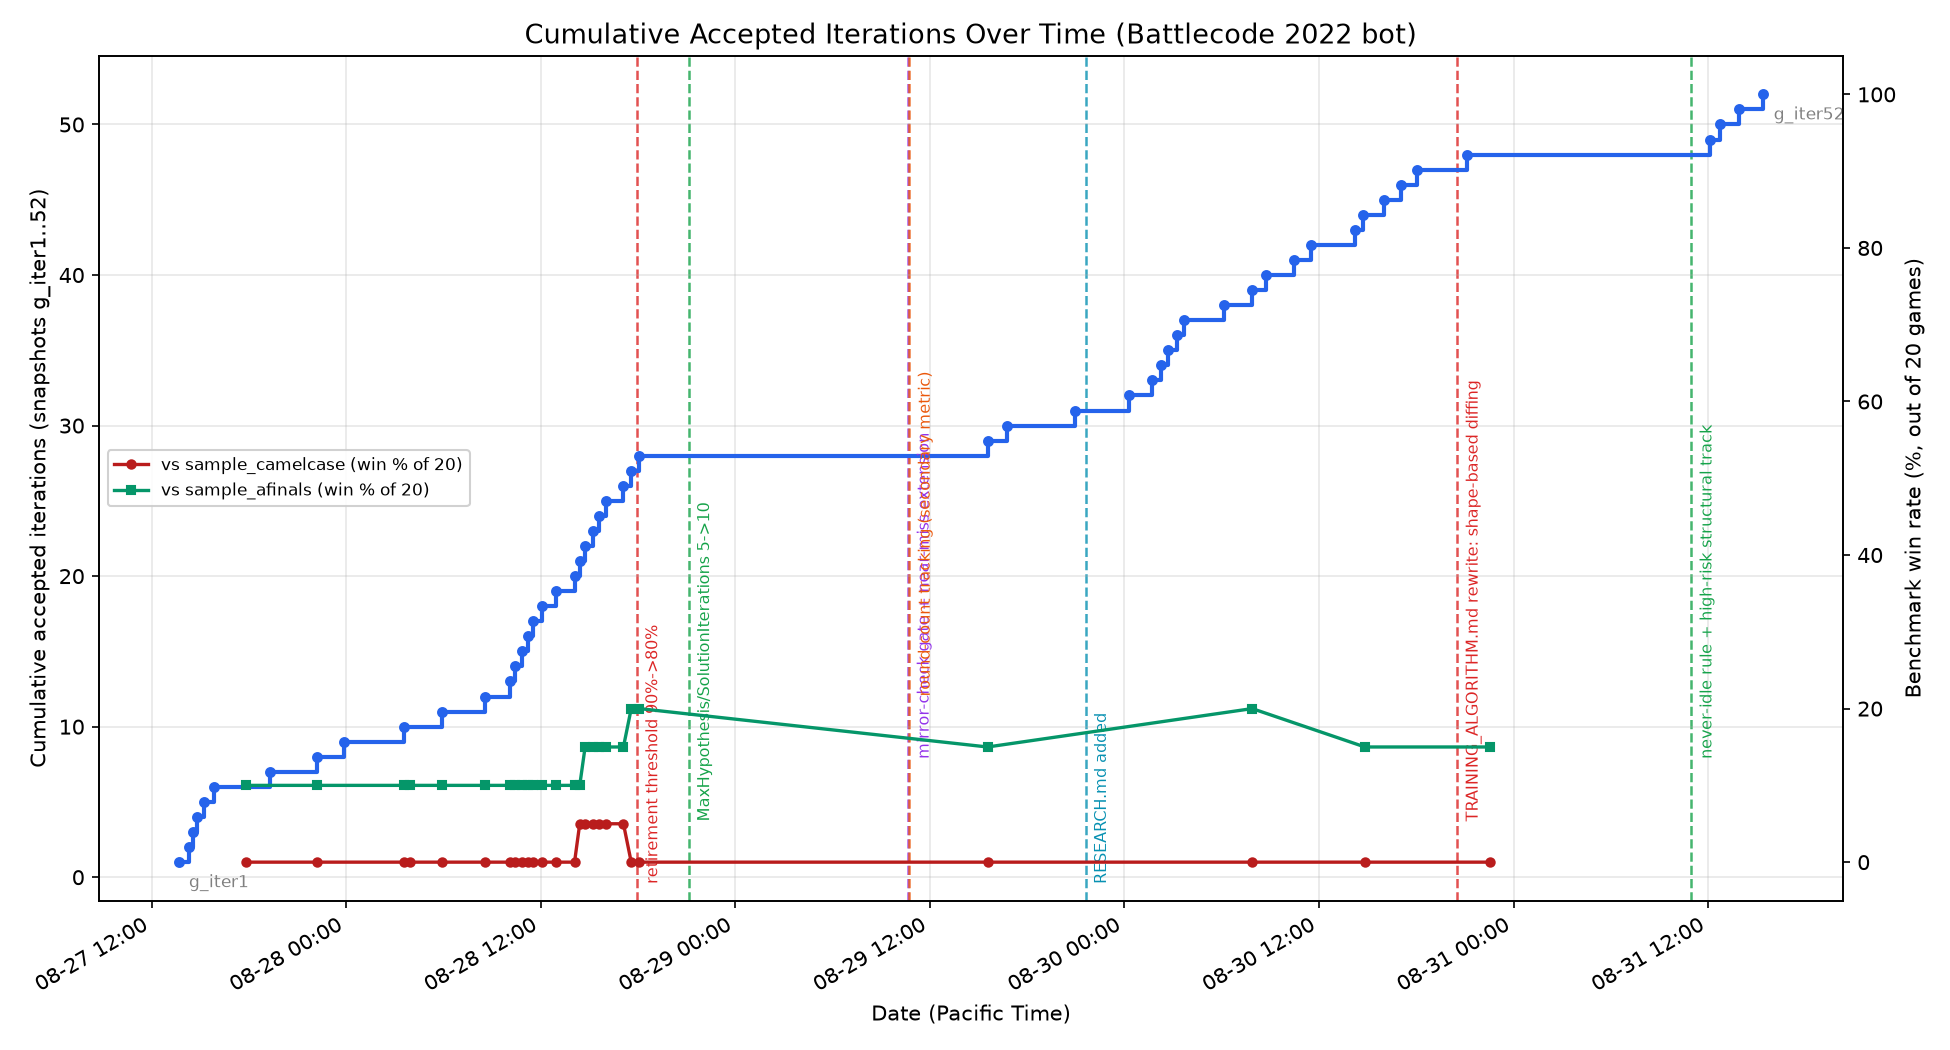
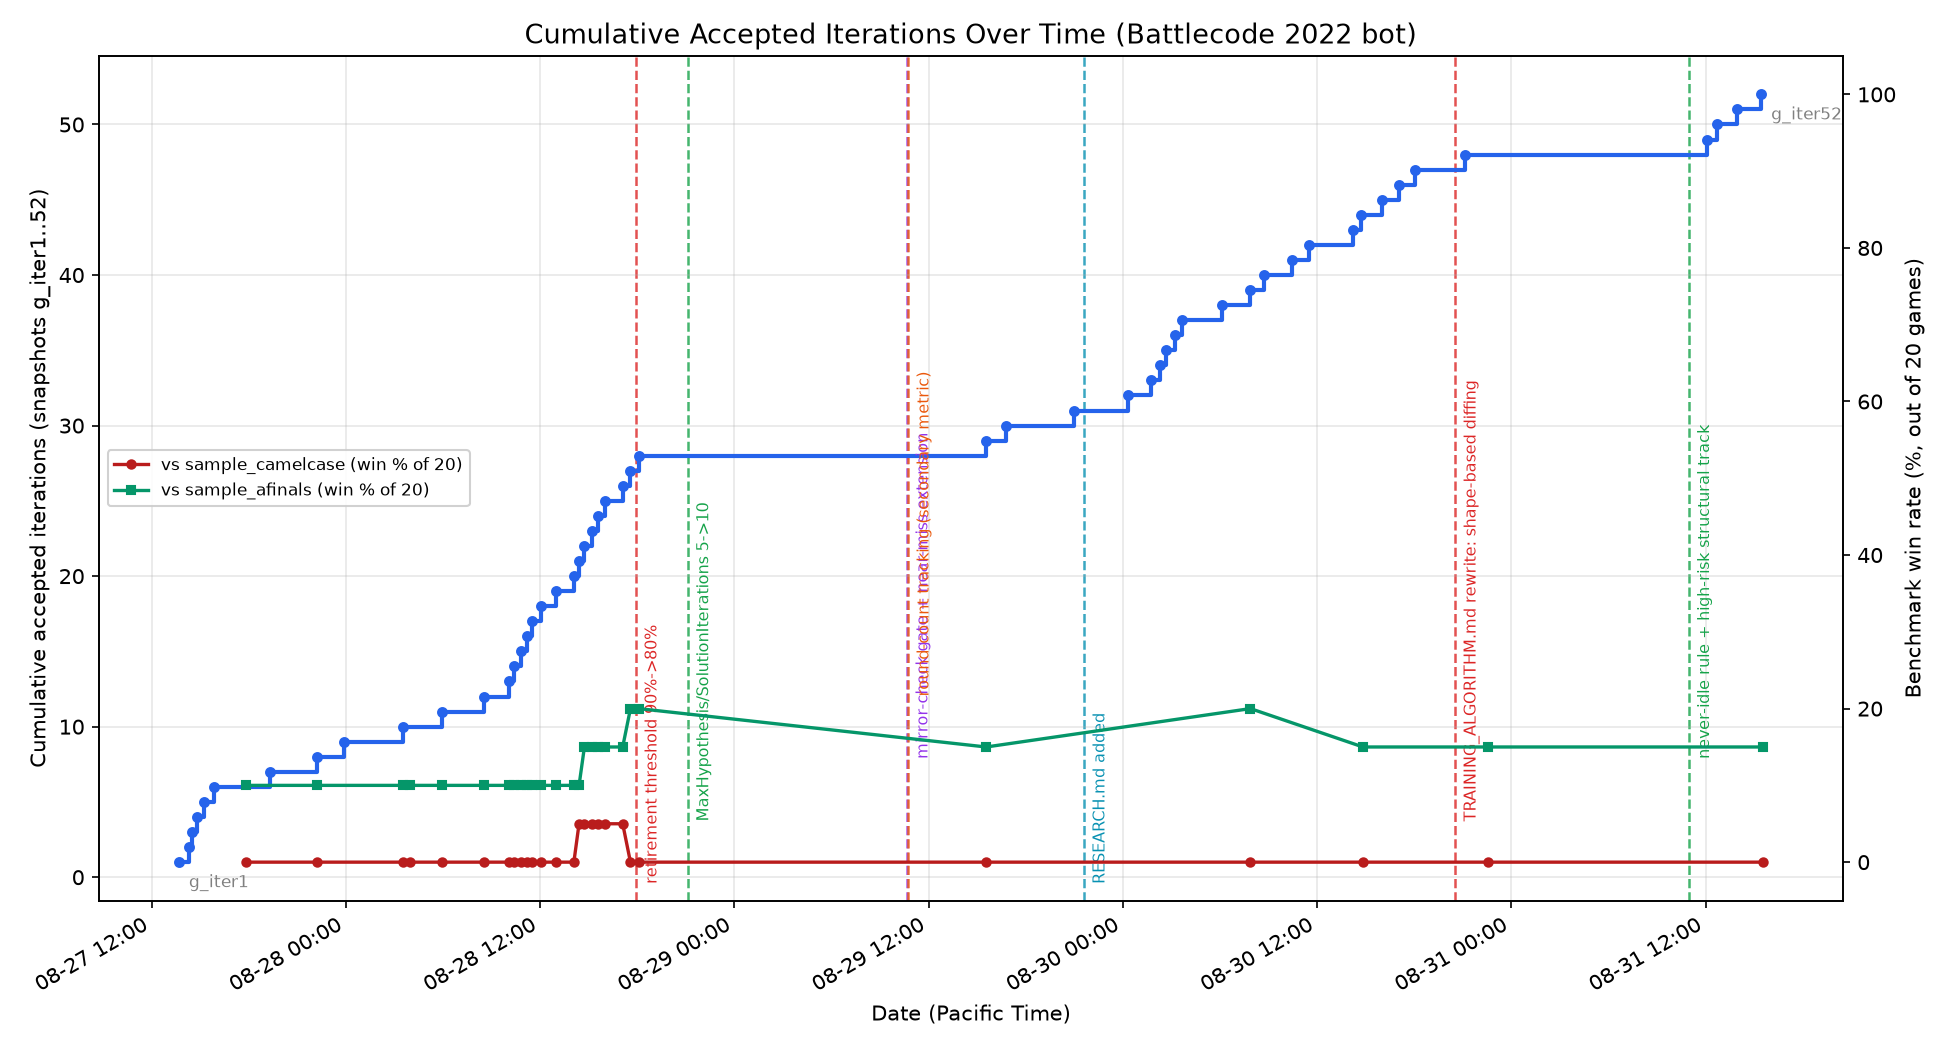
Diagnostic: fresh benchmark tally post-Iteration 115 -- afinals unaffected, A_gold stays 0 there (separate Builder-survival bottleneck)

diff --git a/tools/plot_progress.py b/tools/plot_progress.py
@@ -75,6 +75,7 @@ BENCHMARK_HISTORY = [
     ("2026-08-30T14:52:55+00:00", 0, 4),   # this session's full 60-game tally
     ("2026-08-30T14:50:07-07:00", 0, 3),   # post-Iteration-97 check (Sage early-warning)
     ("2026-08-30T22:34:22-07:00", 0, 3),   # post-Iteration-103 check (build-priority/reinforce fixes)
+    ("2026-08-31T15:34:09-07:00", 0, 3),   # post-Iteration-115 check (Sage-gate unlock; afinals unaffected -- separate A_gold=0 bottleneck)
 ]
 
 

diff --git a/TRAINING_LOG.md b/TRAINING_LOG.md
@@ -9714,3 +9714,25 @@ sustained-war one -- if the mechanism only ever fires opportunistically
 during active combat now (since that's when most games spend most of
 their time), there may still be room to make Sage timing smarter, just
 not via a contact-recency signal.
+
+### Diagnostic note — fresh benchmark tally after Iteration 115: afinals unaffected, and why
+
+Ran fresh full 20-game tallies with `g_iter52` (Iteration 115's
+Sage-gate unlock) as the working state: `sample_afinals` **3/20
+(15%)**, `sample_camelcase` **0/20 (0%)** -- both unchanged from the
+last recorded point. Traced why `afinals` in particular didn't move,
+despite that opponent's whole doctrine being built around a Sage
+economy: `--metrics` on a fresh loss replay showed **`A_gold` staying
+flat at 0 for the entire game**, exactly like every prior check this
+session (Iterations 89/96/97/99's whole "survival not supply" thread).
+Iteration 115's fix only helps once gold already exists to spend --
+against `afinals` specifically, our Builders/Miners still never
+survive long enough to generate any gold at all in the first place, a
+separate, already-characterized bottleneck upstream of anything
+Iteration 115 touched. This is expected, not a regression or a missed
+opportunity -- Iteration 115's gains show up in peer games (where
+Iterations 109/110 already made gold genuinely flow), not here.
+
+Added as a new `BENCHMARK_HISTORY` point in `tools/plot_progress.py`
+(`2026-08-31T15:34:09-07:00`, camelcase=0, afinals=3) and regenerated
+the progress chart.
